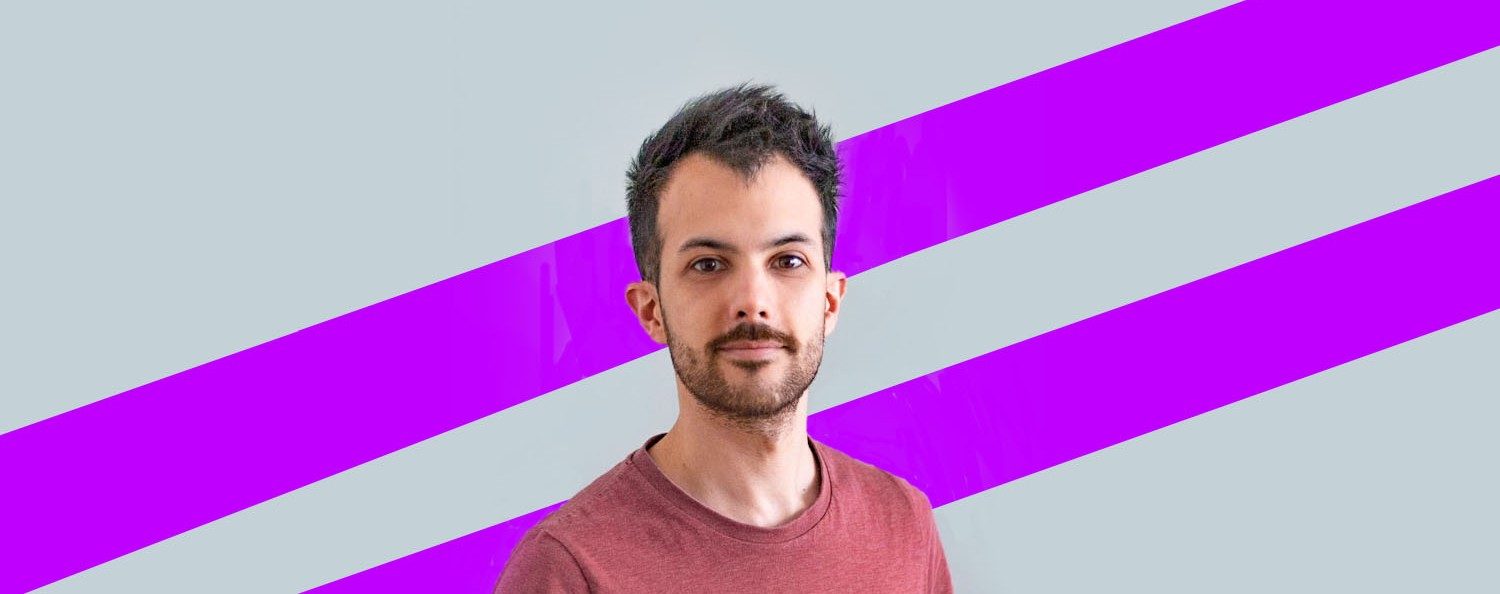
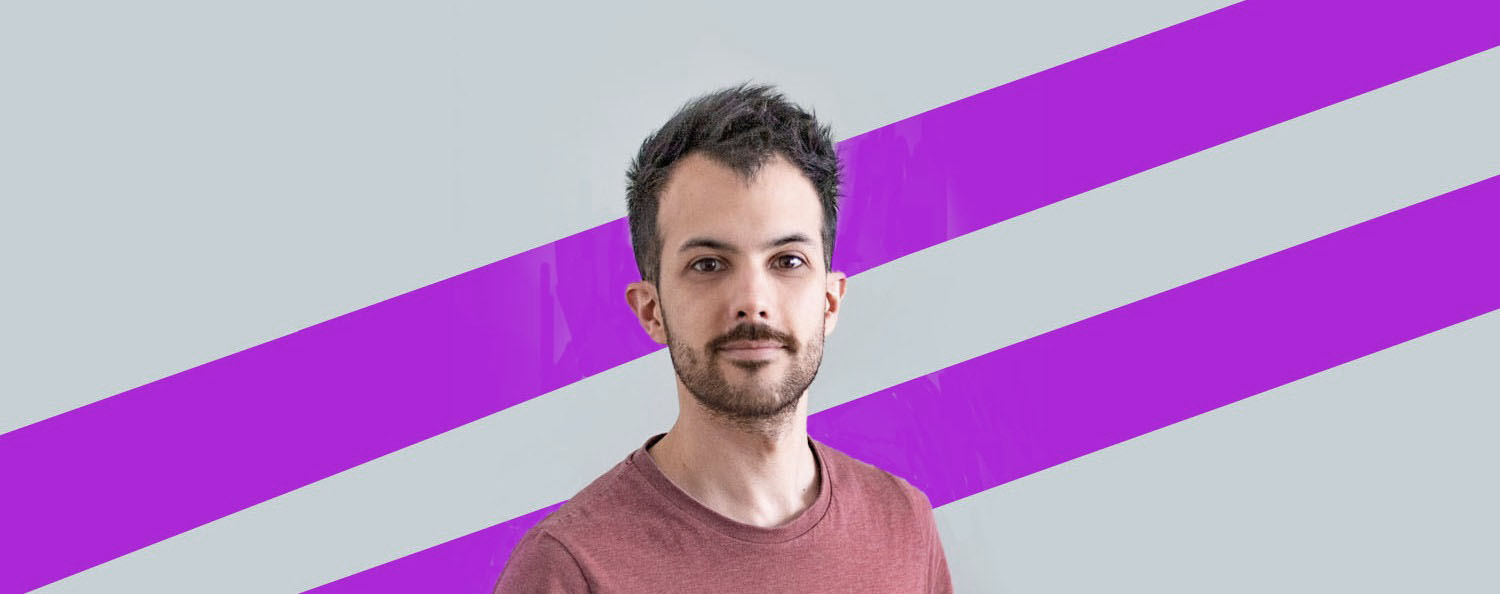
Purple color correction + photo desaturation

diff --git a/src/components/About/About.scss b/src/components/About/About.scss
@@ -5,7 +5,7 @@
         transition-duration: .3s;
         transition-timing-function: ease-in-out;
         &:hover{
-            color: #bf00ff;
+            color: #a235c7;
         }
     }
     &__description{
@@ -22,7 +22,7 @@
             font-size: 18px;
             text-align: justify;
             b{
-                color: #bf00ff;
+                color: #a235c7;
             }
         }
     }

diff --git a/src/components/About/Header.scss b/src/components/About/Header.scss
@@ -85,5 +85,5 @@
 @keyframes thirdAnim{
     0%{ transform: translateX(-100vw); color: white; }
     50%{ transform: translateX(40vw); color: white;}
-    100%{ transform: translateX(40vw);  color: #bf00ff;}
+    100%{ transform: translateX(40vw);  color: #a235c7;}
 }
